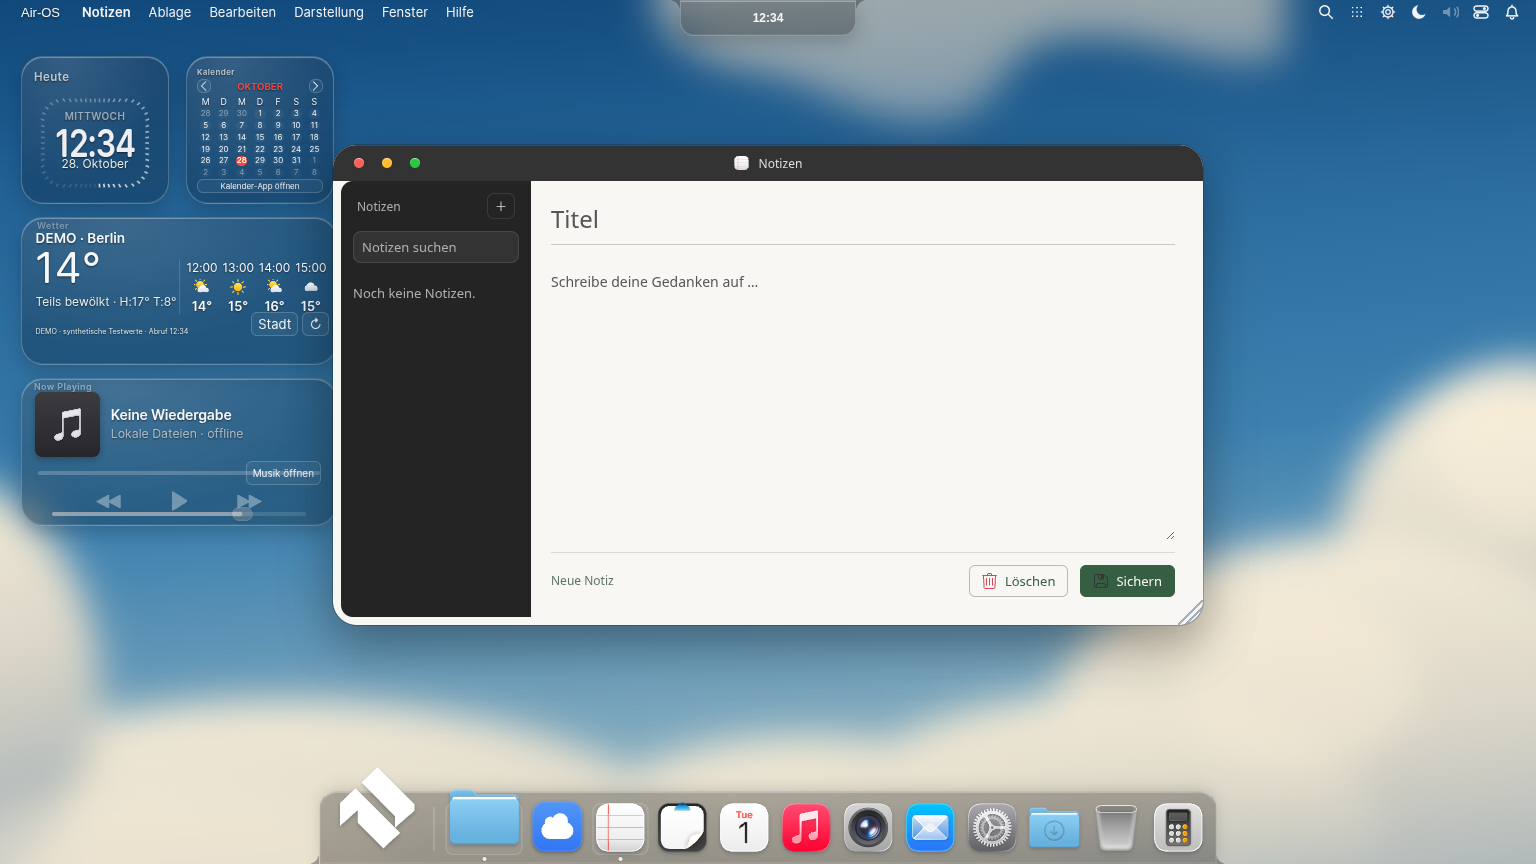
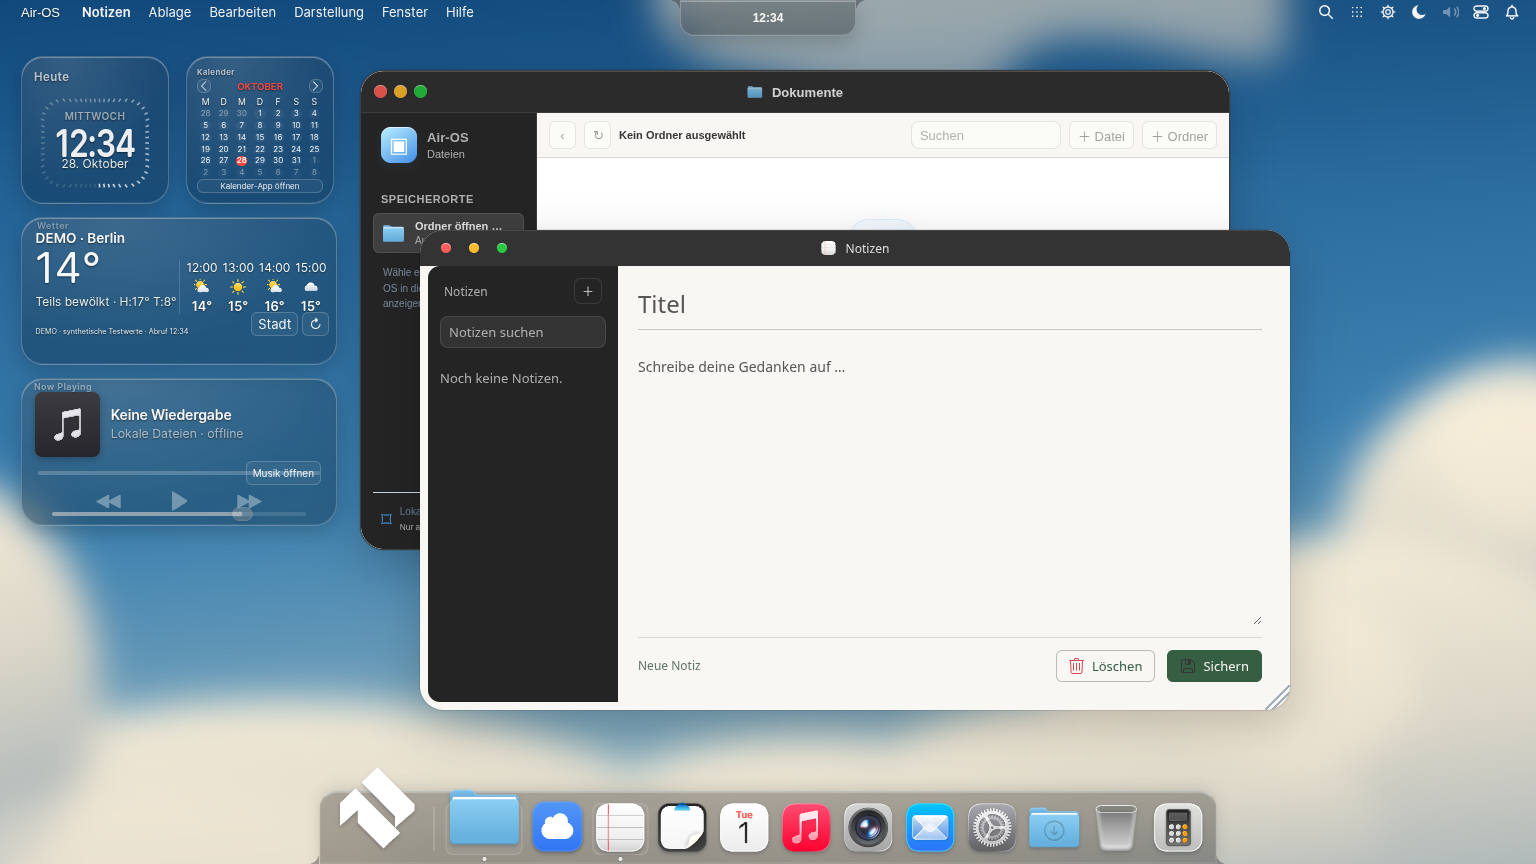
fix(r7): keep public MacLock card above material canvas and validate visible app composition

Changed region(s): [[0.1875, 0.0625, 0.8438, 0.8438]]

diff --git a/air-r7.css b/air-r7.css
@@ -64,3 +64,5 @@ html[data-desktop-theme=modern] .deep-widget[data-widget=calendar]:not([data-wid
 html[data-desktop-theme=modern] .deep-widget[data-widget=calendar]:not([data-widget-size=large]) .widget-calendar-grid{flex:1;min-height:0;grid-template-rows:repeat(7,minmax(0,1fr));grid-auto-rows:auto;align-items:center}
 /* The existing16px action SVG must scale with its14.4px button at80%, not create a scrollbar. */
 html[data-desktop-theme=modern] .deep-widget[data-widget=calendar] .widget-month-nav .t7-action-icon{width:100%;height:100%;max-width:100%;max-height:100%;object-fit:contain}
+/* Public right-column content stays above the existing MacLock material canvas, like the centre card. */
+.maclock-safe-notice.r7-lock-right{z-index:4;isolation:isolate;color:#f2f5f3}

diff --git a/docs/AIR_OS_R7_FINAL_EXPERIENCE.md b/docs/AIR_OS_R7_FINAL_EXPERIENCE.md
@@ -1,6 +1,6 @@
 # Air-OS R7 — Final Experience
 
-Branch: feat/air-os-r7-final-experience. Verbindliche Basis:7be272a61d43db03810817755adf9615629ac89b. Die R6.1-Geometrie,24px-Menü und natives Fullscreen bleiben Regressionen.
+Branch: feat/air-os-r7-final-experience. Verbindliche Basis:7be272a61d43db03810817755adf9615629ac89b. Produkt-/Buildcommit:f324d5901141ec1bcbf6bb773b4d1876751a8fb3.556/556 lokale Tests; die R6.1-Geometrie,24px-Menü und natives Fullscreen bleiben erhalten. Die abschließende Windows-Shaderdiagnose läuft; alle normalen installierten GUI-Pfade sind bestanden.
 
 ## Checkpoint A — gemeinsame Materialpipeline
 
@@ -17,7 +17,7 @@ Branch: feat/air-os-r7-final-experience. Verbindliche Basis:7be272a61d43db038108
 
 [Prism](visual/r7/materials/material-prism.png) · [Frost](visual/r7/materials/material-frost.png) · [Acrylic mit Inner Glow](visual/r7/materials/material-acrylic.png).
 
-Weitere Checkpoints und Windows-R7-Abnahme folgen im selben Auftrag. Native Schatten-/Borderobjekte, DRM/KMS/Wayland und echte Live-Fensterrefraktion sind dadurch nicht portiert.
+Die folgenden Abschnitte dokumentieren die weiteren tatsächlichen Checkpoints und die native Abnahme. Native Schatten-/Borderobjekte, DRM/KMS/Wayland und echte Live-Fensterrefraktion sind dadurch nicht portiert.
 
 ## Checkpoint B — echte Interaktionen und sichere MacLock-Komposition
 
@@ -120,3 +120,28 @@ Checkpoint A49e5374, B d7bb297, C836a046. Der erste native R7-Lauf40840202863 be
 Der neue „Zur Anmeldung“-Button fokussiert explizit das interaktive Passwortfeld. Ein gemeinsamer querySelector für Passwort und versteckten Benutzernamen hätte wegen der DOM-Reihenfolge das versteckte Feld gewählt. Der reale Electron-Test fokussiert den Button, sendet Enter, prüft activeElement=login-password und weiterhin currentUser=null. Kein Login-/Consent-Mock.
 
 556/556 Tests und die komplette neue fünfgrößige R7-GUI bestanden. Das GUI-Testhilfsmittel prüft Popoveranimationen auf der Desktopseite unverändert; auf Loginseiten darf die dort nicht vorhandene Island entfallen. Finale R7-Quelle enthält sowohl Legacy-Restore als auch diesen Fokusfix.
+
+## Exakte Originalcode-Zuordnung
+
+| Originalprojekt / Commit | Originalpfad / Integrität | Tatsächlicher R7-Ausführungspfad |
+|---|---|---|
+| Hyprland0aa6745f705f2c4b0a5004eb019ef76e5bbdb426, BSD-3-Clause | src/render/shaders/glsl/prismfinish.frag, frostfinish.frag, inner_glow.glsl; exakte SHA-256 und Dateien im vorhandenen [Manifest](../third_party/hyprland/provenance.json) | build-hyprland-shaders → airHyprShaders → derselbe air-desktop-glass-Draw; originale Faltungs-/Voronoi-/Glowberechnung wirklich ausgeführt |
+| MacShell1bdb51870b621100fd2709f66c8f8e00ab17b9c4, MIT | MacShell/Spring.qml, vorhandenes third_party/tahoe7/original/Spring.qml | airMacShell7.step wird jetzt von air-window-system.reflow für vier Geometrieachsen aufgerufen; keine weitere Animationsengine |
+| Derselbe MacShell-Pin, MIT | MacShell/MacWidgets.qml, vorhandenes third_party/r6-macshell/original/MacWidgets.qml | dims/gridCell/gridGap-Skalierung in desktop-widgets; bestätigtes Reference-Preset und vorhandener Galerie-/Dragmanager |
+| Derselbe MacShell-Pin, MIT | MacLock/LockScreen.qml; [SHA-256/Quelle](../third_party/r7-macshell/provenance.json) und vollständiger [Lizenztext](../third_party/r7-macshell/LICENSE) | maclock-layout.media, bestehendes maclock-system und gemeinsames air-r7.css; kein PAM/Quickshell/FileView/MPRIS-Aufruf |
+| Derselbe MacShell-Pin, MIT | Vorhandenes PlayerArt.qml und src/core/player-art-path.js | Derselbe ursprüngliche generische Notenpfad jetzt auch im neutralen MacLock; kein erfundenes Cover |
+| MacTahoe GTK1e45e19f510edb8cde18fa84d6cd5319f60b086b, MIT / Icons839848b9a8a38a92a6936e30c4abe35cc6f2546d, GPL-3.0 | Bestehende Originalwerte/56 zentrale Assets und Quell-/Lizenznachweise | air-tahoe.css und vorhandenes Registry-/Iconmapping in Apps/Dock/Launchpad/Spotlight weiterverwendet; R7 beansprucht keine neuen Iconimporte |
+
+Nur1 neue Originaldatei wird zusätzlich gebündelt (LockScreen.qml); die bereits vorhandenen Originale wurden wiederverwendet. Nicht ausgeführte Teile dieser QML-Datei zählen nicht als Port. Die Rampen-/Warte-/Kollisions- und Consentintegration gehört zur Air-OS-Anpassung, nicht zu behauptetem unverändertem Originalcode.
+
+Die eingefrorene moderne Toolchain hat beim lokalen Audit0 Advisories. Der normale lokale Root behält bewusst die separate Legacy-Electron32-Installation; check:modern lehnt diese erwartungsgemäß ab. Echte lokale GUI-Läufe nutzten explizit Electron44.9.3. Im Windows-Kanal erfolgt zuerst der bestehende Toolchain-Link; dort sind Modern-/Catalina-Sourcechecks und der Pflichtaudit tatsächlich bestanden. Keine Auditprüfung wurde umgangen.
+
+## Windows-Bildabnahme: korrigierter MacLock-Layer
+
+Native Funktionstests von f324d5901141ec1bcbf6bb773b4d1876751a8fb3 bestanden24/24. Die anschließende tatsächliche Bildprüfung zeigte jedoch einen Darstellungsfehler: nach dem Verschieben in die rechte Originalspalte lag die neutrale Karte außerhalb des z=4-Hosts, sodass das vorhandene MacLock-Glas-Canvas ihre Texte übermalte. Dieser Stand wird deshalb nicht als endgültige visuelle Abnahme angeboten.
+
+Korrigiert: die rechte Karte erhält denselben z-index4-/Isolation-Vertrag wie die zentrale Karte. Keine neue Shaderengine und keine private Inhaltssichtbarkeit. Die GUI prüft den Stack, sendet Enter auf dem realen Anmeldebutton und bestätigt weiterhin Passwortfokus bei currentUser=null.
+
+Außerdem werden Finder und Notes für den direkten Vergleich über echte Titelleistendrags versetzt (beide Fenster sichtbar); identische echte Eingaben auch im unveränderten R6.1-Baselinelauf. Kein nachbearbeitetes Bild und keine direkte Layoutstilmanipulation im Screenshotfixture.
+
+557/557 Tests, komplette neue fünfgrößige GUI und erneute unveränderte R6.1-Baseline bestanden. Die finalen Windowsbilder/der Installer werden erneut aus genau diesem korrigierten Produktstand erzeugt. [Zwei echte Fenster](visual/r7/after/r7-apps-1536.png).

diff --git a/docs/DEVELOPMENT_PROGRESS.md b/docs/DEVELOPMENT_PROGRESS.md
@@ -1,3 +1,9 @@
+# R7 Bildabnahme — nativen MacLock-Layer tatsächlich korrigiert
+
+557/557 Tests; neue fünfgrößige GUI und unveränderte Vergleichsbasis erneut bestanden. Native f324-Funktionstests24/24 grün, aber echte Bildprüfung fand rechts vom bestehenden MacLock-Canvas verdeckten neutralen Kartentext. z=4/Isolation entspricht jetzt der zentralen Karte; Stack/Fokus/keine Authfreigabe geprüft. Zwei echte Apps werden per tatsächlichem Titelleistendrag für identische Vorher-/Nachher-Szenen sichtbar angeordnet. Noch autorisiert: erneuter finaler WindowsR7-Build/Installation/GUI/Bildkontrolle aus diesem Stand, Hash und Abschluss. Keine weiteren Features beginnen.
+
+---
+
 # R7 letzter Produktcheckpoint — Tastatur/Kompatibilität geprüft
 
 556/556 Tests, vollständige neue fünfgrößige R7-GUI inklusive Legacy-Restore und tatsächlicher MacLock-Enter→Passwortfokus; currentUser bleibt null. R6.1-Fullscreen/M1M2 und Shader-/Cleanup-Regressionswege erhalten. A49e5374/Bd7bb297/C836a046/Db77f1f2 gesichert. Noch autorisiert: WindowsR7 aus genau diesem letzten Produktstand installieren/prüfen, Evidenz/Hash und Abschlussdokumentation. Keine neuen Produktfeatures beginnen.

diff --git a/docs/NEXT_STEPS.md b/docs/NEXT_STEPS.md
@@ -1,3 +1,9 @@
+# R7 Bildabnahme — nativen MacLock-Layer tatsächlich korrigiert
+
+557/557 Tests; neue fünfgrößige GUI und unveränderte Vergleichsbasis erneut bestanden. Native f324-Funktionstests24/24 grün, aber echte Bildprüfung fand rechts vom bestehenden MacLock-Canvas verdeckten neutralen Kartentext. z=4/Isolation entspricht jetzt der zentralen Karte; Stack/Fokus/keine Authfreigabe geprüft. Zwei echte Apps werden per tatsächlichem Titelleistendrag für identische Vorher-/Nachher-Szenen sichtbar angeordnet. Noch autorisiert: erneuter finaler WindowsR7-Build/Installation/GUI/Bildkontrolle aus diesem Stand, Hash und Abschluss. Keine weiteren Features beginnen.
+
+---
+
 # R7 letzter Produktcheckpoint — Tastatur/Kompatibilität geprüft
 
 556/556 Tests, vollständige neue fünfgrößige R7-GUI inklusive Legacy-Restore und tatsächlicher MacLock-Enter→Passwortfokus; currentUser bleibt null. R6.1-Fullscreen/M1M2 und Shader-/Cleanup-Regressionswege erhalten. A49e5374/Bd7bb297/C836a046/Db77f1f2 gesichert. Noch autorisiert: WindowsR7 aus genau diesem letzten Produktstand installieren/prüfen, Evidenz/Hash und Abschlussdokumentation. Keine neuen Produktfeatures beginnen.
